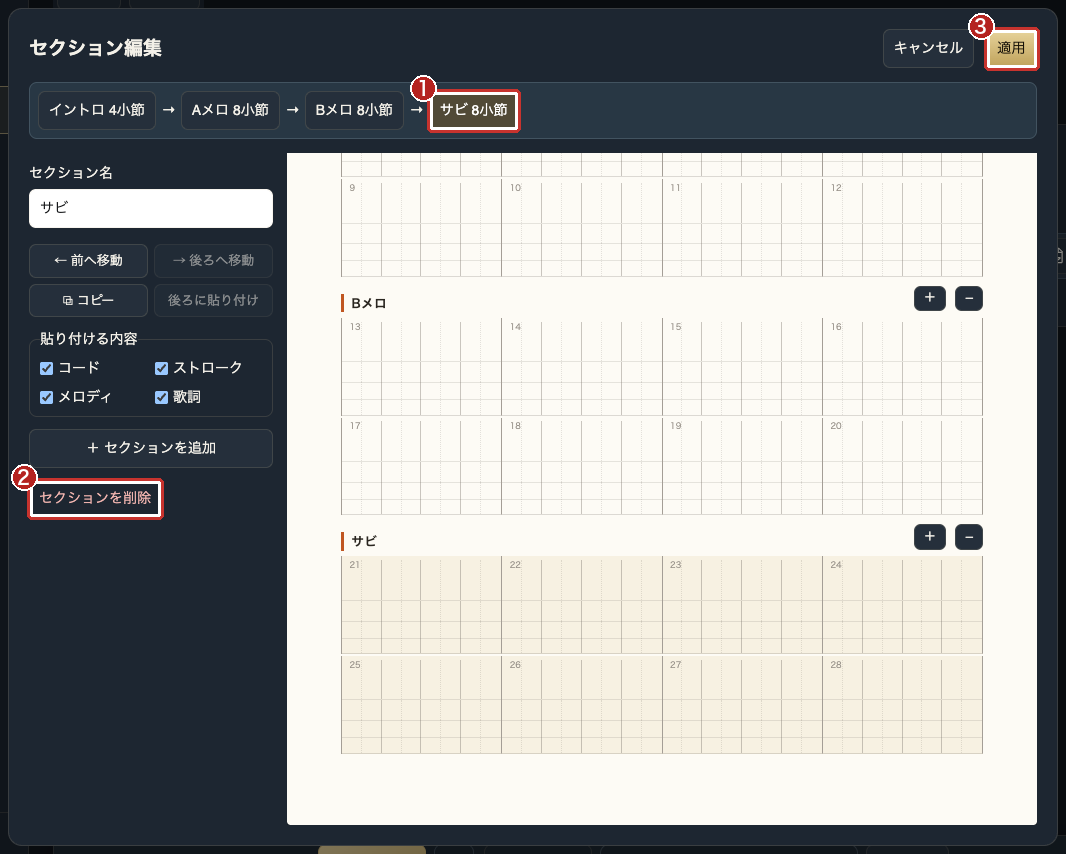
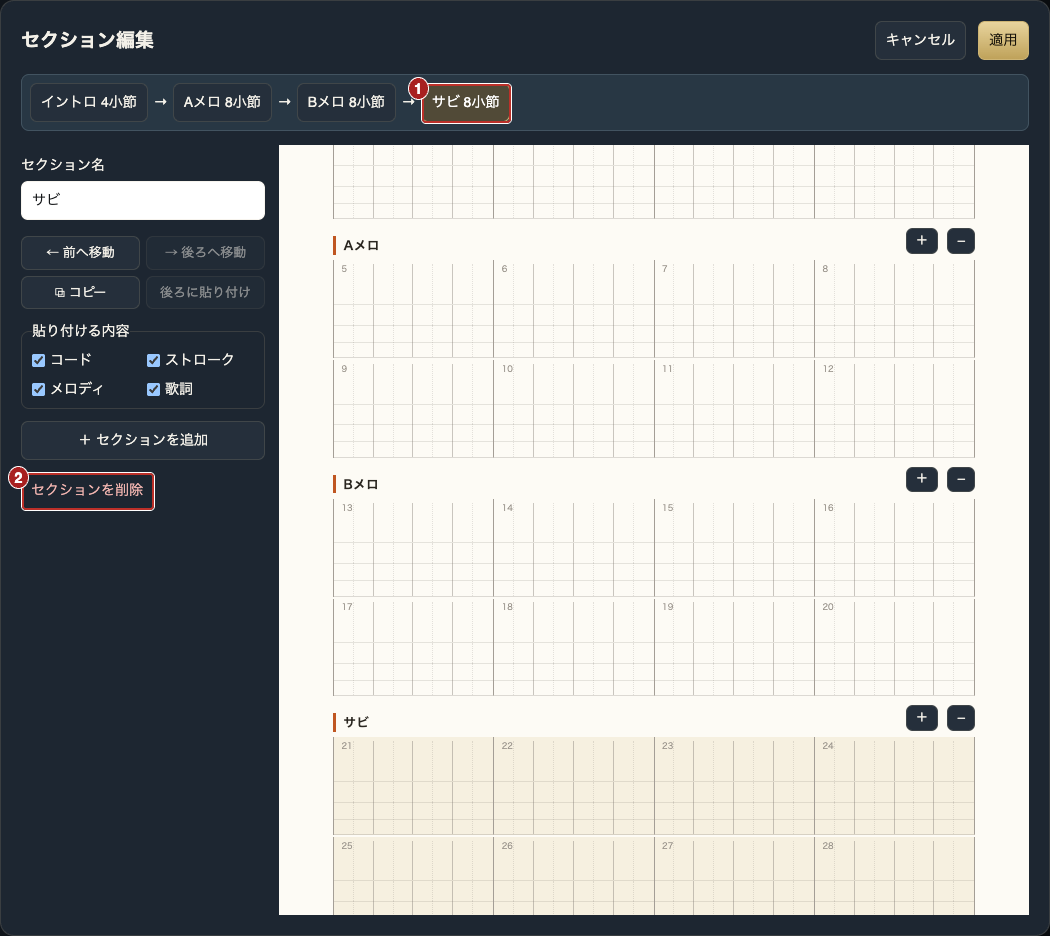
Clarify the illustrated first-song walkthrough and verify the score guide

diff --git a/apps/cruise-studio/score-guide/index.html b/apps/cruise-studio/score-guide/index.html
@@ -7,37 +7,39 @@
 @media print{.capture{max-width:100%;max-height:none}.capture img{width:auto;max-height:140mm}.legend b{print-color-adjust:exact}.opening{padding:0}}
 .lesson-notes{border-collapse:collapse;margin:1rem 0;width:min(100%,36rem)}.lesson-notes th,.lesson-notes td{text-align:center;border:1px solid #cfc7b6;padding:.25rem}.lesson-notes td span{color:#285b80}.lesson-notes caption{text-align:left}.lesson-notes thead{background:#ede8db}#lesson figure img{max-height:none}#lesson h3{margin-top:2rem}
 </style>
-<header id="top"><p>Cruise Studio · Ver. 0.211.1-rc.1</p><h1>譜面クルーズ 取扱説明書</h1><p>曲を作り、小節に演奏を入力し、印刷・配布するまでの操作を説明します。チュートリアルでは「そらまで」、機能別の解説では「海辺の散歩」を使います。</p></header>
+<header id="top"><p>Cruise Studio · Ver. 0.211.2-rc.1</p><h1>譜面クルーズ 取扱説明書</h1><p>曲を作り、小節に演奏を入力し、印刷・配布するまでの操作を説明します。チュートリアルでは「そらまで」、機能別の解説では「海辺の散歩」を使います。</p></header>
 <section id="overview" class="opening"><h2>画面の見かた</h2><p>操作は上、譜面は中央、再生は下にあります。左のスタジオメニューから他のツールにも移動できます。</p>
 <figure><div class="capture"><img src="overview.png" alt="スタジオの中で譜面クルーズを開いた画面全体"><svg aria-hidden="true" viewBox="0 0 1440 1000"><rect x="241" y="178" width="1159" height="201" rx="5" fill="none" stroke="#c32820" stroke-width="3"/><circle cx="238" cy="175" r="20" fill="#ab271e" stroke="white" stroke-width="2"/><text x="238" y="182.6" text-anchor="middle" font-family="sans-serif" font-size="24" font-weight="bold" fill="white">1</text><rect x="481" y="594" width="678" height="111" rx="5" fill="none" stroke="#c32820" stroke-width="3"/><circle cx="478" cy="591" r="20" fill="#ab271e" stroke="white" stroke-width="2"/><text x="478" y="598.6" text-anchor="middle" font-family="sans-serif" font-size="24" font-weight="bold" fill="white">2</text><rect x="241" y="929" width="1159" height="60" rx="5" fill="none" stroke="#c32820" stroke-width="3"/><circle cx="238" cy="926" r="20" fill="#ab271e" stroke="white" stroke-width="2"/><text x="238" y="933.6" text-anchor="middle" font-family="sans-serif" font-size="24" font-weight="bold" fill="white">3</text></svg></div><figcaption><ul class="legend"><li><b>1</b>上部カードで曲とツールを選ぶ</li><li><b>2</b>譜面で編集・再生する小節を選ぶ</li><li><b>3</b>再生、テンポ、音量を操作する</li></ul></figcaption></figure>
 <p><a href="#lesson">最初の1曲を作ってみる ↓</a></p></section>
-<nav aria-label="目次"><strong>目次</strong><ul>
+<nav id="contents" aria-label="目次"><strong>目次</strong><ul>
 <li><a href="#overview">画面の見かた</a></li><li><a href="#lesson">はじめての1曲</a></li><li><a href="#start">曲を作る・開く</a></li><li><a href="#save">保存場所・複製・変更履歴</a></li><li><a href="#song">曲情報・キー・カポ</a></li><li><a href="#bars">小節を選ぶ・移動する</a></li><li><a href="#edit">小節編集と鍵盤・フォーム入力</a></li><li><a href="#sections">セクションを組み立てる</a></li><li><a href="#batch">コード・ストローク一括入力</a></li><li><a href="#view">段組み・文字・表示設定</a></li><li><a href="#play">再生と練習</a></li><li><a href="#share">書き出し・印刷・ビューワー</a></li><li><a href="#keys">キー操作・困ったとき</a></li><li><a href="#contact">お問い合わせ</a></li></ul></nav>
 <main><section id="lesson"><h2>はじめての1曲「そらまで」</h2>
 <p>4/4拍子、BPM 100の4小節を作ります。コードとストロークは一括入力し、歌詞とメロディは各拍の先頭に入れます。</p>
-<h3>1. 曲を作る</h3><p>「メニュー」→「新しい曲を作成」を開き、曲名に「そらまで」、BPMに100を入力します。拍子は4/4です。そのまま画面左下の「譜面の全体編集」へ進みます。</p>
-<figure><img src="lesson/new-menu.png" alt="新しい曲を作成するメニュー"><figcaption>①メニュー　②新しい曲を作成</figcaption></figure><figure><img src="lesson/song.png" alt="新規作成画面の左欄。曲名やBPMの下に「譜面の全体編集」の3つのボタンが並ぶ"><figcaption>①曲名　②BPM　③セクション編集　④コード一括入力　⑤ストローク一括入力</figcaption></figure>
-<h3>2. 練習用の4小節を用意する</h3><p>「譜面の全体編集」の「セクション編集」を押します。この練習用の新規曲では、イントロの4小節を残し、ほかのセクションを選んで削除します。残したセクションの名前を「うた」に変え、右上の「適用」を押すと「新しい曲を作成」に戻ります。</p>
-<figure><img src="lesson/sections.png" alt="不要なセクションを選択した画面"><figcaption>①削除するセクション　②セクションを削除　③適用</figcaption></figure>
-<h3>3. コードを一括入力する</h3><p>「新しい曲を作成」の「譜面の全体編集」から「コード一括入力」を押します。「1950s」を選び、「曲全て」にチェックして「適用」を押します。下の譜面に C・Am・F・G が1小節ずつ並んだら、右上の「OK」を押して作成画面に戻ります。</p>
+<h3>1. 曲を作る</h3><p>「メニュー」→「新しい曲を作成」を開き、曲名に「そらまで」、BPMに100を入力します。拍子は4/4です。右の譜面に曲名とBPMが反映されたことを確認します。この画面を開いたまま、手順2に進みます。</p>
+<figure><img src="lesson/new-menu.png" alt="新しい曲を作成するメニュー"><figcaption>①メニュー　②新しい曲を作成</figcaption></figure><figure><img src="lesson/song.png" alt="「新しい曲を作成」の画面全体。左に曲名・BPMと3つの編集ボタン、右に「そらまで」の譜面が表示される"><figcaption>①曲名　②BPM　③セクション編集　④コード一括入力　⑤ストローク一括入力　⑥譜面プレビュー</figcaption></figure>
+<h3>2. 練習用の4小節を用意する</h3><p>「新しい曲を作成」画面の左下で「セクション編集」（手順1の③）を押します。開いた画面の上部で「サビ」を選び、「セクションを削除」を押し、確認画面で曲中のどの部分を削除するか確かめて確定します。同じ操作で「Bメロ」と「Aメロ」を削除し、「イントロ 4小節」を残します。</p>
+<figure><img src="lesson/sections.png" alt="不要なセクションを選択した画面"><figcaption>①サビを選ぶ　②セクションを削除</figcaption></figure>
+<p>残した「イントロ」のセクション名を「うた」に変えます。上部に「うた 4小節」だけが並んだら、右上の「適用」で「新しい曲を作成」画面に戻ります。</p>
+<figure><img src="lesson/section-ready.png" alt="セクション編集で「うた」だけを残した状態。セクション名の入力欄と右上の適用ボタン"><figcaption>①セクション名　②適用</figcaption></figure>
+<h3>3. コードを一括入力する</h3><p>「新しい曲を作成」画面の「コード一括入力」（手順1の④）を押します。「1950s」を選び、「曲全て」にチェックして「適用」を押します。下の譜面に C・Am・F・G が1小節ずつ並んだら、右上の「OK」を押して作成画面に戻ります。</p>
 <figure><img src="lesson/chords.png" alt="1950sのコード進行を4小節に適用したプレビュー"><figcaption>①1950s　②曲全て　③適用　④OK</figcaption></figure>
-<h3>4. ストロークを4小節すべてに入れる</h3><p>同じ「譜面の全体編集」から「ストローク一括入力」を押します。「4分連続」を選び、ここでも「曲全て」をチェックして「適用」。3・4小節目まで各小節に4つずつ ↓ があることを確認し、「OK」で作成画面に戻ります。</p>
+<h3>4. ストロークを4小節すべてに入れる</h3><p>「新しい曲を作成」画面の「ストローク一括入力」（手順1の⑤）を押します。「4分連続」を選び、ここでも「曲全て」をチェックして「適用」。3・4小節目まで各小節に4つずつ ↓ があることを確認し、「OK」で作成画面に戻ります。</p>
 <figure><img src="lesson/strum.png" alt="4分音符のダウンストロークを4小節に適用したプレビュー"><figcaption>①4分連続　②曲全て　③適用　④OK</figcaption></figure>
 <p>作成画面のプレビューで、4小節のコードとストロークを確認します。ここで右上の「適用」を押して、作った譜面を開きます。</p>
 <figure><img src="lesson/apply-song.png" alt="新規作成画面に戻ったプレビュー。4小節の伴奏と右上の適用ボタン"><figcaption>①作成画面の「適用」</figcaption></figure>
 <h3>5. 小節編集を開く</h3><p>譜面の1小節目をクリックし、上部カードの「編集」を押します。編集画面の上で「4小節」を選ぶと、4小節分を横に並べて入力できます。</p>
 <figure><img src="lesson/edit.png" alt="選んだ小節と上部カードの編集ボタン"><figcaption>①1小節目　②編集</figcaption></figure>
-<h3>6. 歌詞を入れる</h3><p>歌詞行の各拍の先頭に、ひらがなを1文字ずつ入力します。1小節目なら、1拍目「あ」、2拍目「さ」、3拍目「の」、4拍目「ひ」です。8分グリッドでは各拍の左側のマスを使います。</p><table class="lesson-notes"><caption>各列が1拍です。上段が歌詞、下段がドレミです。</caption><thead><tr><th>小節・コード</th><th>1拍目</th><th>2拍目</th><th>3拍目</th><th>4拍目</th></tr></thead><tbody><tr><th>1・C</th><td>あ<br><span>ド</span></td><td>さ<br><span>ミ</span></td><td>の<br><span>ソ</span></td><td>ひ<br><span>ミ</span></td></tr><tr><th>2・Am</th><td>か<br><span>ラ</span></td><td>ぜ<br><span>ソ</span></td><td>の<br><span>ミ</span></td><td>ね<br><span>ド</span></td></tr><tr><th>3・F</th><td>そ<br><span>ファ</span></td><td>ら<br><span>ラ</span></td><td>ま<br><span>ソ</span></td><td>で<br><span>ファ</span></td></tr><tr><th>4・G</th><td>と<br><span>ソ</span></td><td>ど<br><span>レ</span></td><td>け<br><span>シ</span></td><td>て<br><span>ソ</span></td></tr></tbody></table>
-<figure><img src="lesson/lyrics.png" alt="4小節の歌詞を入力した編集画面"><figcaption>①4小節表示　②最初の「あ」　③最後の「て」</figcaption></figure>
+<h3>6. 歌詞を入れる</h3><p>歌詞行の各拍の先頭に、ひらがなを1文字ずつ入力します。1小節目なら、1拍目「あ」、2拍目「さ」、3拍目「の」、4拍目「ひ」です。8分グリッドでは各拍の左側のマスを使います。右へスクロールしながら、下の表のとおりに4小節分を入力します。</p><table class="lesson-notes"><caption>各列が1拍です。上段が歌詞、下段がドレミです。</caption><thead><tr><th>小節・コード</th><th>1拍目</th><th>2拍目</th><th>3拍目</th><th>4拍目</th></tr></thead><tbody><tr><th>1・C</th><td>あ<br><span>ド</span></td><td>さ<br><span>ミ</span></td><td>の<br><span>ソ</span></td><td>ひ<br><span>ミ</span></td></tr><tr><th>2・Am</th><td>か<br><span>ラ</span></td><td>ぜ<br><span>ソ</span></td><td>の<br><span>ミ</span></td><td>ね<br><span>ド</span></td></tr><tr><th>3・F</th><td>そ<br><span>ファ</span></td><td>ら<br><span>ラ</span></td><td>ま<br><span>ソ</span></td><td>で<br><span>ファ</span></td></tr><tr><th>4・G</th><td>と<br><span>ソ</span></td><td>ど<br><span>レ</span></td><td>け<br><span>シ</span></td><td>て<br><span>ソ</span></td></tr></tbody></table>
+<figure><img src="lesson/lyrics.png" alt="編集画面の1小節目。コードCの下の歌詞行に「あ・さ・の・ひ」が並ぶ"><figcaption>①4小節表示　②1拍目「あ」　③4拍目「ひ」</figcaption></figure>
 <h3>7. メロディを入れる</h3><p>ドレミ行で、歌詞と同じ位置に音名を入力します。「ファ」は1つのマスにまとめます。4小節分を入力したら編集画面を閉じ、歌詞の真下に各音が並んでいることを確認します。</p>
-<figure><img src="lesson/notes.png" alt="4小節のドレミを入力した編集画面"><figcaption>①4小節表示　②最初の「ド」　③最後の「ソ」</figcaption></figure><figure><img src="lesson/score.png" alt="コード、ストローク、歌詞、メロディの4段がそろった完成譜"><figcaption>4小節すべてにコードと4本の矢印があり、その下に歌詞とメロディが並びます。</figcaption></figure>
+<figure><img src="lesson/notes.png" alt="1小節目の歌詞の真下に「ド・ミ・ソ・ミ」が並ぶ"><figcaption>①4小節表示　②1拍目「ド」　③4拍目「ミ」</figcaption></figure><figure><img src="lesson/score.png" alt="コード、ストローク、歌詞、メロディの4段がそろった完成譜"><figcaption>4小節すべてにコードと4本の矢印があり、その下に歌詞とメロディが並びます。</figcaption></figure>
 <h3>8. 編集用のファイルを保存する</h3><p>メニュー → 名前をつけて保存。PCのChromeでは保存先と名前を選びます。図のようなダウンロード画面では「そらまで.json」を確認して「保存」。このファイルは「ファイルを開く(JSON)」で再編集できます。</p>
 <figure><img src="lesson/save.png" alt="ダウンロード方式でのファイル名の指定"><figcaption>①ファイル名　②保存</figcaption></figure><p><a href="#save">Safariで端末内の保存先を選ぶ方法</a></p>
-<h3>9. ビューワーに書き出して再生する</h3><p>メニュー → 譜面ビューワーに書き出す。保存先のフォルダを確認して「書き出す」を押します。完了画面の「ビューワーで開く」を押し、下の「再生」で演奏を聴きます。同じボタンで一時停止できます。</p>
-<figure><img src="lesson/export.png" alt="演奏用譜面の書き出し先を選ぶ画面"><figcaption>①保存先フォルダ　②書き出す</figcaption></figure><figure><img src="lesson/open.png" alt="書き出し完了画面"><figcaption>①ビューワーで開く</figcaption></figure><figure><img src="lesson/play.png" alt="完成した曲をビューワーで再生している画面"><figcaption>①再生・一時停止</figcaption></figure>
-</section><section id="start"><h2>曲を作る・開く</h2><ol><li>スタジオで「譜面クルーズ」を開き、「メニュー」から「新しい曲を作成」を選びます。</li><li>曲情報で曲名、BPM、拍子などを入力して「適用」を押します。</li><li>白い譜面の小節を選んで「編集」を押します。まず先頭にコードとストロークを入れ、下の「再生」で確認してから「保存」します。</li></ol>
+<h3>9. ビューワーに書き出して再生する</h3><p>メニュー → 譜面ビューワーに書き出す。ビューワーのライブラリ内のフォルダを選びます。最初は「未分類」のまま「書き出す」を押します。完了画面の「譜面ビューワーに移動」を押し、下の「再生」で演奏を聴きます。同じボタンで一時停止できます。</p>
+<figure><img src="lesson/export.png" alt="演奏用譜面の書き出し先を選ぶ画面"><figcaption>①ライブラリ内のフォルダ　②書き出す</figcaption></figure><figure><img src="lesson/open.png" alt="書き出し完了画面"><figcaption>①譜面ビューワーに移動</figcaption></figure><figure><img src="lesson/play.png" alt="完成した曲をビューワーで再生している画面"><figcaption>①再生・一時停止</figcaption></figure>
+</section><section id="start"><h2>曲を作る・開く</h2><dl><dt>新しく作る</dt><dd>左上の曲名欄か「メニュー」で「新しい曲を作成」を選びます。<a href="#lesson">4小節の練習曲を作る手順</a></dd><dt>このブラウザの曲を開く</dt><dd>左上の曲名欄を開き、一覧から曲名を選びます。</dd><dt>端末のJSONファイルを開く</dt><dd>曲名欄の「ファイルを開く(JSON)」を選び、保存しておいた編集用ファイルを開きます。</dd></dl>
 <figure><div class="capture"><img src="toolbar.png" alt="上段の曲切り替え・メニュー・表示と、下段の保存・履歴・ツール"><svg aria-hidden="true" viewBox="0 0 1161 203"><rect x="14" y="12" width="438" height="42" rx="5" fill="none" stroke="#c32820" stroke-width="3"/><circle cx="15" cy="15" r="13" fill="#ab271e" stroke="white" stroke-width="2"/><text x="15" y="19.9" text-anchor="middle" font-family="sans-serif" font-size="16" font-weight="bold" fill="white">1</text><rect x="464" y="12" width="94" height="42" rx="5" fill="none" stroke="#c32820" stroke-width="3"/><circle cx="461" cy="15" r="13" fill="#ab271e" stroke="white" stroke-width="2"/><text x="461" y="19.9" text-anchor="middle" font-family="sans-serif" font-size="16" font-weight="bold" fill="white">2</text><rect x="14" y="66" width="57" height="34" rx="5" fill="none" stroke="#c32820" stroke-width="3"/><circle cx="15" cy="63" r="13" fill="#ab271e" stroke="white" stroke-width="2"/><text x="15" y="67.9" text-anchor="middle" font-family="sans-serif" font-size="16" font-weight="bold" fill="white">3</text><rect x="1112" y="115" width="28" height="34" rx="5" fill="none" stroke="#c32820" stroke-width="3"/><circle cx="1109" cy="112" r="13" fill="#ab271e" stroke="white" stroke-width="2"/><text x="1109" y="116.9" text-anchor="middle" font-family="sans-serif" font-size="16" font-weight="bold" fill="white">4</text></svg></div><figcaption><ul class="legend"><li><b>1</b>曲の切り替え・保存場所・ファイル一覧</li><li><b>2</b>曲の作成や書き出し</li><li><b>3</b>現在の曲を保存</li><li><b>4</b>ツールの表示項目を選択</li></ul></figcaption></figure>
-<p>左上の曲名欄には、新規作成、保存、複製、ファイルを開く(JSON)、書き出し、印刷も並びます。「メニュー」からも同じ操作ができます。外部ファイルは「メニュー」→「ファイルを開く(JSON)」で開きます。ツールの各アイコンにポインターを置くと操作名が出ます。「…」で表示項目を選び、アイコンのドラッグで順番を変更できます。「すべて表示」で全項目を戻せます。</p></section>
+<p>左上の曲名欄には、新規作成、保存、複製、ファイルを開く(JSON)、書き出し、印刷も並びます。「メニュー」からも同じ操作ができます。ツールの各アイコンにポインターを置くと操作名が出ます。「…」で表示項目を選び、アイコンのドラッグで順番を変更できます。「すべて表示」で全項目を戻せます。</p></section>
 <section id="save"><h2>保存場所・複製・変更履歴</h2><dl>
 <dt>保存／名前をつけて保存</dt><dd>ファイル保存に対応したPCブラウザでは、初回の「保存」で場所と名前を選びます。次の「保存」は関連付けたファイルを更新します。「メニュー」→「名前をつけて保存」で別名を選ぶと、それ以降の保存先は新しいファイルになります。</dd>
 <dt>保存場所</dt><dd>曲名の選択欄を開き、「この曲の保存場所」を押すと、ファイルを関連付けたChromeではそのフォルダからファイル選択画面が開きます。場所を確認したらキャンセルで戻れます。未保存の曲やブラウザ内の曲では、現在の状態と書き出し方法が表示されます。</dd>
@@ -47,7 +49,7 @@
 <figure><div class="capture"><img src="files.png" alt="ファイル一覧の曲名と削除ボタン"><svg aria-hidden="true" viewBox="0 0 512 210"><rect x="22" y="67" width="405" height="37" rx="5" fill="none" stroke="#c32820" stroke-width="3"/><circle cx="19" cy="64" r="13" fill="#ab271e" stroke="white" stroke-width="2"/><text x="19" y="68.9" text-anchor="middle" font-family="sans-serif" font-size="16" font-weight="bold" fill="white">1</text><rect x="439" y="67" width="51" height="37" rx="5" fill="none" stroke="#c32820" stroke-width="3"/><circle cx="436" cy="64" r="13" fill="#ab271e" stroke="white" stroke-width="2"/><text x="436" y="68.9" text-anchor="middle" font-family="sans-serif" font-size="16" font-weight="bold" fill="white">2</text></svg></div><figcaption><ul class="legend"><li><b>1</b>曲を開く</li><li><b>2</b>一覧から削除</li></ul></figcaption></figure><dl>
 <dt>曲を複製</dt><dd>メニューから「曲を複製」を選び、別の曲として作業を続けます。編曲案を分けたいときに使います。</dd>
 <dt>取り消し・履歴</dt><dd>保存ボタンの横の矢印で編集を一手ずつ取り消し・やり直しできます。「履歴」で過去の状態を選ぶと譜面を確認できます。「この時点に戻す」を確定すると、それ以降の履歴が失われます。ファイルへ反映するには保存します。</dd></dl></section>
-<section id="song"><h2>曲情報・キー・カポ</h2><p>譜面のタイトル、BPM、拍子、ORGキー、Playキー、またはメニューの「曲情報」を押します。曲名・アーティスト・テンポ・拍子は見本で確かめてから「適用」します。</p><figure><div class="capture"><img src="song.png" alt="左で曲情報を設定し、右の譜面で確認する画面"><svg aria-hidden="true" viewBox="0 0 1120 799"><rect x="22" y="111" width="257" height="37" rx="5" fill="none" stroke="#c32820" stroke-width="3"/><circle cx="19" cy="108" r="13" fill="#ab271e" stroke="white" stroke-width="2"/><text x="19" y="112.9" text-anchor="middle" font-family="sans-serif" font-size="16" font-weight="bold" fill="white">1</text><rect x="22" y="336" width="257" height="34" rx="5" fill="none" stroke="#c32820" stroke-width="3"/><circle cx="19" cy="333" r="13" fill="#ab271e" stroke="white" stroke-width="2"/><text x="19" y="337.9" text-anchor="middle" font-family="sans-serif" font-size="16" font-weight="bold" fill="white">2</text><rect x="1049" y="22" width="49" height="37" rx="5" fill="none" stroke="#c32820" stroke-width="3"/><circle cx="1046" cy="19" r="13" fill="#ab271e" stroke="white" stroke-width="2"/><text x="1046" y="23.9" text-anchor="middle" font-family="sans-serif" font-size="16" font-weight="bold" fill="white">3</text></svg></div><figcaption><ul class="legend"><li><b>1</b>曲名を入力</li><li><b>2</b>拍子を選択</li><li><b>3</b>曲情報を適用</li></ul></figcaption></figure><p>ORGキーは原曲の調、Playキーは演奏に使うキー・カポの組み合わせです。「移調・カポの変更前後を確認」またはメニューの「キー・カポ」を開き、コードの変更前後を見比べて適用します。「譜面の全体編集」からセクション編集と一括入力にも進めます。</p></section>
+<section id="song"><h2>曲情報・キー・カポ</h2><p>譜面のタイトル、BPM、拍子、ORGキー、Playキー、またはメニューの「曲情報」を押します。曲名・アーティスト・テンポ・拍子は右の譜面で確かめてから「適用」します。</p><figure><div class="capture"><img src="song.png" alt="左で曲情報を設定し、右の譜面で確認する画面"><svg aria-hidden="true" viewBox="0 0 1120 799"><rect x="22" y="111" width="257" height="37" rx="5" fill="none" stroke="#c32820" stroke-width="3"/><circle cx="19" cy="108" r="13" fill="#ab271e" stroke="white" stroke-width="2"/><text x="19" y="112.9" text-anchor="middle" font-family="sans-serif" font-size="16" font-weight="bold" fill="white">1</text><rect x="22" y="336" width="257" height="34" rx="5" fill="none" stroke="#c32820" stroke-width="3"/><circle cx="19" cy="333" r="13" fill="#ab271e" stroke="white" stroke-width="2"/><text x="19" y="337.9" text-anchor="middle" font-family="sans-serif" font-size="16" font-weight="bold" fill="white">2</text><rect x="1049" y="22" width="49" height="37" rx="5" fill="none" stroke="#c32820" stroke-width="3"/><circle cx="1046" cy="19" r="13" fill="#ab271e" stroke="white" stroke-width="2"/><text x="1046" y="23.9" text-anchor="middle" font-family="sans-serif" font-size="16" font-weight="bold" fill="white">3</text></svg></div><figcaption><ul class="legend"><li><b>1</b>曲名を入力</li><li><b>2</b>拍子を選択</li><li><b>3</b>曲情報を適用</li></ul></figcaption></figure><p>ORGキーは原曲の調、Playキーは演奏に使うキー・カポの組み合わせです。「移調・カポの変更前後を確認」またはメニューの「キー・カポ」を開き、コードの変更前後を見比べて適用します。「曲情報」画面の左下には「セクション編集」「コード一括入力」「ストローク一括入力」もあります。</p></section>
 <section id="bars"><h2>小節を選ぶ・移動する</h2><p>小節をクリックすると上部カードに小節操作が出ます。続けて同じ小節をクリックするか「編集」で入力へ進みます。複数小節は先頭から末尾へドラッグするか、最初をクリックして最後をShift＋クリックします。譜面の余白で選択を解除します。</p><dl><dt>小節追加・複製</dt><dd>選択位置の後ろに空の小節、または選んだ内容のコピーを追加します。</dd><dt>コピー・貼り付け</dt><dd>元の範囲をコピーし、貼り始める位置を選びます。「上書き貼り付け」は既存の位置を置き換え、「挿入して貼り付け」は後ろの小節を送ります。</dd><dt>移動</dt><dd>前へ・後ろへ移動するボタンで並びを変えます。セクション境界では移動後の所属も確認します。</dd><dt>削除</dt><dd>「枠を残して削除」は譜面上の場所を空き枠として残します。「詰めて削除」は後ろの小節を前へ詰めます。空き枠は再生されません。</dd></dl></section>
 <section id="edit"><h2>小節編集と鍵盤・フォーム入力</h2><figure><div class="capture"><img src="editor.png" alt="小節編集のコード・ストローク・歌詞・ドレミの行と拍の区切り"><svg aria-hidden="true" viewBox="0 0 960 338"><rect x="113" y="71" width="101" height="40" rx="5" fill="none" stroke="#c32820" stroke-width="3"/><circle cx="110" cy="68" r="13" fill="#ab271e" stroke="white" stroke-width="2"/><text x="110" y="72.9" text-anchor="middle" font-family="sans-serif" font-size="16" font-weight="bold" fill="white">1</text><rect x="113" y="118" width="101" height="40" rx="5" fill="none" stroke="#c32820" stroke-width="3"/><circle cx="110" cy="115" r="13" fill="#ab271e" stroke="white" stroke-width="2"/><text x="110" y="119.9" text-anchor="middle" font-family="sans-serif" font-size="16" font-weight="bold" fill="white">2</text></svg></div><figcaption><ul class="legend"><li><b>1</b>コードを入力</li><li><b>2</b>ストロークを入力</li></ul></figcaption></figure><p>上の「1小節」〜「4小節」は編集する範囲、「前へ」「次へ」は小節移動です。倍率ボタンでマスを拡大できます。「右窓へ」で編集画面の置き場所を切り替えます。編集画面内の「？」で入力中にも操作を確認できます。</p>
 <dl><dt>コード・フォーム</dt><dd>コード行のマスをクリックしてEmやG/Bなどを入力します。選択中のマスをもう一度クリックすると文字単位で直せます。行名の▼からコード・フォームを選べます。フォームの図は譜面の表示設定で表示できます。</dd>
@@ -55,15 +57,15 @@
 <dt>歌詞・ドレミ</dt><dd>歌い始めるマスに文字を入れます。ドレミは行名横の▼から鍵盤でも入力できます。音の高さを確認して試聴します。表示設定では歌詞・メロディの文字サイズと字間を個別に調節できます。</dd>
 <dt>音価・拍ごとの固定</dt><dd>行名横の数字で行の入力単位を選びます。特定の拍だけ細かくしたい場合は拍の右下の数字を押します。鍵付きの拍は行の単位を変えても固定されます。「…」のマスは、単位を細かくすると中の入力を確認できます。</dd>
 <dt>マスのコピー・移動</dt><dd>同じ行をドラッグまたはShift＋クリックで選び、⌘／Ctrl＋C、貼り始めるマスで⌘／Ctrl＋V。伸ばしは先頭の音と一緒に選びます。入力済みマスの左下の点をドラッグすると移動先を上書きします。</dd></dl></section>
-<section id="sections"><h2>セクションを組み立てる</h2><figure><div class="capture"><img src="sections.png" alt="セクションの順序、内容と譜面のプレビュー"><svg aria-hidden="true" viewBox="0 0 1050 866"><rect x="22" y="75" width="1006" height="55" rx="5" fill="none" stroke="#c32820" stroke-width="3"/><circle cx="19" cy="72" r="13" fill="#ab271e" stroke="white" stroke-width="2"/><text x="19" y="76.9" text-anchor="middle" font-family="sans-serif" font-size="16" font-weight="bold" fill="white">1</text><rect x="22" y="146" width="242" height="362" rx="5" fill="none" stroke="#c32820" stroke-width="3"/><circle cx="19" cy="143" r="13" fill="#ab271e" stroke="white" stroke-width="2"/><text x="19" y="147.9" text-anchor="middle" font-family="sans-serif" font-size="16" font-weight="bold" fill="white">2</text><rect x="979" y="22" width="49" height="37" rx="5" fill="none" stroke="#c32820" stroke-width="3"/><circle cx="976" cy="19" r="13" fill="#ab271e" stroke="white" stroke-width="2"/><text x="976" y="23.9" text-anchor="middle" font-family="sans-serif" font-size="16" font-weight="bold" fill="white">3</text></svg></div><figcaption><ul class="legend"><li><b>1</b>編集するセクションを選択</li><li><b>2</b>選択したセクションを編集</li><li><b>3</b>変更を適用</li></ul></figcaption></figure><p>譜面の「イントロ」「Aメロ」などの見出しを押してセクション編集を開きます。対象を選び、名前・曲中の順序・小節数を調整します。繰り返す部分は「コピー」で持っていくパートを選び、挿入位置の「後ろに貼り付け」を使います。コピーに小節を足す・末尾を削る操作もできます。削除すると中の小節も対象になるため、プレビューで前後を確認して「適用」します。</p></section>
-<section id="batch"><h2>コード・ストローク一括入力</h2><h3>コード進行を置く</h3><p>「コード一括」でプリセットを選び、譜面上の開始小節を押します。選択色が付いた小節が入力先です。セクション名や範囲選択で同じ進行を繰り返す範囲を指定できます。再生で進行を確かめて「適用」します。選択範囲のコードをまとめて消す場合はDeleteを使います。</p><figure><div class="capture"><img src="chords.png" alt="コード進行のプリセットと入力先の選択"><svg aria-hidden="true" viewBox="0 0 960 940"><rect x="109" y="67" width="200" height="40" rx="5" fill="none" stroke="#c32820" stroke-width="3"/><circle cx="106" cy="64" r="13" fill="#ab271e" stroke="white" stroke-width="2"/><text x="106" y="68.9" text-anchor="middle" font-family="sans-serif" font-size="16" font-weight="bold" fill="white">1</text><rect x="164" y="568" width="174" height="116" rx="5" fill="none" stroke="#c32820" stroke-width="3"/><circle cx="161" cy="565" r="13" fill="#ab271e" stroke="white" stroke-width="2"/><text x="161" y="569.9" text-anchor="middle" font-family="sans-serif" font-size="16" font-weight="bold" fill="white">2</text><rect x="902" y="18" width="40" height="30" rx="5" fill="none" stroke="#c32820" stroke-width="3"/><circle cx="899" cy="15" r="13" fill="#ab271e" stroke="white" stroke-width="2"/><text x="899" y="19.9" text-anchor="middle" font-family="sans-serif" font-size="16" font-weight="bold" fill="white">3</text></svg></div><figcaption><ul class="legend"><li><b>1</b>コード進行を選択</li><li><b>2</b>入力先の先頭小節を選択</li><li><b>3</b>進行を適用</li></ul></figcaption></figure>
-<h3>リズムを置く</h3><p>「ストローク一括」で4分・8分・16分などのプリセットを選び、入力先を指定します。「曲全て」は全曲が対象です。プリセットの試聴と曲の譜面の再生を使い分け、適用前に範囲を確認します。</p><figure><div class="capture"><img src="strokes.png" alt="ストロークのパターンを選択して譜面に適用する画面"><svg aria-hidden="true" viewBox="0 0 960 940"><rect x="109" y="67" width="181" height="40" rx="5" fill="none" stroke="#c32820" stroke-width="3"/><circle cx="106" cy="64" r="13" fill="#ab271e" stroke="white" stroke-width="2"/><text x="106" y="68.9" text-anchor="middle" font-family="sans-serif" font-size="16" font-weight="bold" fill="white">1</text><rect x="164" y="633" width="174" height="116" rx="5" fill="none" stroke="#c32820" stroke-width="3"/><circle cx="161" cy="630" r="13" fill="#ab271e" stroke="white" stroke-width="2"/><text x="161" y="634.9" text-anchor="middle" font-family="sans-serif" font-size="16" font-weight="bold" fill="white">2</text><rect x="902" y="18" width="40" height="30" rx="5" fill="none" stroke="#c32820" stroke-width="3"/><circle cx="899" cy="15" r="13" fill="#ab271e" stroke="white" stroke-width="2"/><text x="899" y="19.9" text-anchor="middle" font-family="sans-serif" font-size="16" font-weight="bold" fill="white">3</text></svg></div><figcaption><ul class="legend"><li><b>1</b>ストロークパターンを選択</li><li><b>2</b>入力先を選択</li><li><b>3</b>パターンを適用</li></ul></figcaption></figure>
+<section id="sections"><h2>セクションを組み立てる</h2><figure><div class="capture"><img src="sections.png" alt="セクションの順序、内容と譜面のプレビュー"><svg aria-hidden="true" viewBox="0 0 1050 866"><rect x="22" y="75" width="1006" height="55" rx="5" fill="none" stroke="#c32820" stroke-width="3"/><circle cx="19" cy="72" r="13" fill="#ab271e" stroke="white" stroke-width="2"/><text x="19" y="76.9" text-anchor="middle" font-family="sans-serif" font-size="16" font-weight="bold" fill="white">1</text><rect x="22" y="146" width="242" height="362" rx="5" fill="none" stroke="#c32820" stroke-width="3"/><circle cx="19" cy="143" r="13" fill="#ab271e" stroke="white" stroke-width="2"/><text x="19" y="147.9" text-anchor="middle" font-family="sans-serif" font-size="16" font-weight="bold" fill="white">2</text><rect x="979" y="22" width="49" height="37" rx="5" fill="none" stroke="#c32820" stroke-width="3"/><circle cx="976" cy="19" r="13" fill="#ab271e" stroke="white" stroke-width="2"/><text x="976" y="23.9" text-anchor="middle" font-family="sans-serif" font-size="16" font-weight="bold" fill="white">3</text></svg></div><figcaption><ul class="legend"><li><b>1</b>編集するセクションを選択</li><li><b>2</b>選択したセクションを編集</li><li><b>3</b>変更を適用</li></ul></figcaption></figure><p>譜面の「イントロ」「Aメロ」などの見出しを押してセクション編集を開きます。対象を選び、名前・曲中の順序・小節数を調整します。繰り返す部分を選んで「コピー」を押します。挿入位置のセクションを選び、「貼り付ける内容」で必要なパートにチェックを入れ、「後ろに貼り付け」を押します。右の譜面で各セクションの「＋」「−」を押すと、その末尾の小節を増減できます。削除すると中の小節も対象になるため、プレビューで前後を確認して「適用」します。</p></section>
+<section id="batch"><h2>コード・ストローク一括入力</h2><h3>コード進行を置く</h3><p>「メニュー」→「コード一括」でプリセットを選び、譜面上の開始小節を押します。選択色が付いた小節が入力先です。セクション名や範囲選択で同じ進行を繰り返す範囲を指定できます。「適用」を押すと下の譜面に進行が入ります。譜面を確認して右上の「OK」で確定します。選択範囲のコードをまとめて消す場合はDeleteを使います。</p><figure><div class="capture"><img src="chords.png" alt="コード進行のプリセットと入力先の選択"><svg aria-hidden="true" viewBox="0 0 960 940"><rect x="109" y="67" width="200" height="40" rx="5" fill="none" stroke="#c32820" stroke-width="3"/><circle cx="106" cy="64" r="13" fill="#ab271e" stroke="white" stroke-width="2"/><text x="106" y="68.9" text-anchor="middle" font-family="sans-serif" font-size="16" font-weight="bold" fill="white">1</text><rect x="164" y="568" width="174" height="116" rx="5" fill="none" stroke="#c32820" stroke-width="3"/><circle cx="161" cy="565" r="13" fill="#ab271e" stroke="white" stroke-width="2"/><text x="161" y="569.9" text-anchor="middle" font-family="sans-serif" font-size="16" font-weight="bold" fill="white">2</text><rect x="421" y="303" width="80" height="30" rx="5" fill="none" stroke="#c32820" stroke-width="3"/><circle cx="418" cy="300" r="13" fill="#ab271e" stroke="white" stroke-width="2"/><text x="418" y="304.9" text-anchor="middle" font-family="sans-serif" font-size="16" font-weight="bold" fill="white">3</text><rect x="902" y="18" width="40" height="30" rx="5" fill="none" stroke="#c32820" stroke-width="3"/><circle cx="899" cy="15" r="13" fill="#ab271e" stroke="white" stroke-width="2"/><text x="899" y="19.9" text-anchor="middle" font-family="sans-serif" font-size="16" font-weight="bold" fill="white">4</text></svg></div><figcaption><ul class="legend"><li><b>1</b>コード進行を選択</li><li><b>2</b>入力先の先頭小節を選択</li><li><b>3</b>適用して譜面を確認</li><li><b>4</b>OKで確定</li></ul></figcaption></figure>
+<h3>リズムを置く</h3><p>「メニュー」→「ストローク一括」で4分・8分・16分などのプリセットを選び、入力先を指定します。「曲全て」は全曲が対象です。「適用」を押し、下の譜面で矢印を確認します。下の「再生」で伴奏を試聴し、右上の「OK」で確定します。</p><figure><div class="capture"><img src="strokes.png" alt="ストロークのパターンを選択して譜面に適用する画面"><svg aria-hidden="true" viewBox="0 0 960 940"><rect x="109" y="67" width="181" height="40" rx="5" fill="none" stroke="#c32820" stroke-width="3"/><circle cx="106" cy="64" r="13" fill="#ab271e" stroke="white" stroke-width="2"/><text x="106" y="68.9" text-anchor="middle" font-family="sans-serif" font-size="16" font-weight="bold" fill="white">1</text><rect x="164" y="633" width="174" height="116" rx="5" fill="none" stroke="#c32820" stroke-width="3"/><circle cx="161" cy="630" r="13" fill="#ab271e" stroke="white" stroke-width="2"/><text x="161" y="634.9" text-anchor="middle" font-family="sans-serif" font-size="16" font-weight="bold" fill="white">2</text><rect x="323" y="324" width="80" height="30" rx="5" fill="none" stroke="#c32820" stroke-width="3"/><circle cx="320" cy="321" r="13" fill="#ab271e" stroke="white" stroke-width="2"/><text x="320" y="325.9" text-anchor="middle" font-family="sans-serif" font-size="16" font-weight="bold" fill="white">3</text><rect x="902" y="18" width="40" height="30" rx="5" fill="none" stroke="#c32820" stroke-width="3"/><circle cx="899" cy="15" r="13" fill="#ab271e" stroke="white" stroke-width="2"/><text x="899" y="19.9" text-anchor="middle" font-family="sans-serif" font-size="16" font-weight="bold" fill="white">4</text></svg></div><figcaption><ul class="legend"><li><b>1</b>ストロークパターンを選択</li><li><b>2</b>入力先を選択</li><li><b>3</b>適用して譜面を確認</li><li><b>4</b>OKで確定</li></ul></figcaption></figure>
 <p>手持ちの進行やリズムは「譜面からプリセット追加」で元の範囲を選び、内容を整えて名前を付けます。「プリセットを編集」ではパターンを変更できます。ストロークは対応するリズムクルーズのプリセットJSONも読み込めます。再利用する素材は「プリセットに保存」してください。</p></section>
 <section id="view"><h2>段組み・文字・表示設定</h2><p>上部の「表示」から項目の表示を切り替えます。「詳細設定」またはツールの「表示設定」で右側の見本を見ながら調整し、「保存」で確定します。「キャンセル」で開く前の状態に戻ります。</p><figure><div class="capture"><img src="display.png" alt="1行の小節数、セクション別の表示、書体と大きさの設定"><svg aria-hidden="true" viewBox="0 0 1080 900"><rect x="32" y="195" width="248" height="34" rx="5" fill="none" stroke="#c32820" stroke-width="3"/><circle cx="29" cy="192" r="13" fill="#ab271e" stroke="white" stroke-width="2"/><text x="29" y="196.9" text-anchor="middle" font-family="sans-serif" font-size="16" font-weight="bold" fill="white">1</text><rect x="30" y="278" width="242" height="19" rx="5" fill="none" stroke="#c32820" stroke-width="3"/><circle cx="27" cy="275" r="13" fill="#ab271e" stroke="white" stroke-width="2"/><text x="27" y="279.9" text-anchor="middle" font-family="sans-serif" font-size="16" font-weight="bold" fill="white">2</text><rect x="1012" y="26" width="46" height="34" rx="5" fill="none" stroke="#c32820" stroke-width="3"/><circle cx="1009" cy="23" r="13" fill="#ab271e" stroke="white" stroke-width="2"/><text x="1009" y="27.9" text-anchor="middle" font-family="sans-serif" font-size="16" font-weight="bold" fill="white">3</text></svg></div><figcaption><ul class="legend"><li><b>1</b>1行の小節数</li><li><b>2</b>セクション別の表示</li><li><b>3</b>表示設定を保存</li></ul></figcaption></figure>
-<dl><dt>1行の小節数</dt><dd>自動では譜面の幅に応じて1・2・4小節になります。手動では最大8小節を指定できます。譜面例で行を選ぶと、その行の枠数と置く小節数を個別に変えられます。</dd><dt>セクションごとの変更</dt><dd>「セクション別の表示」で対象を選び、段組み、各行の表示、書体・色・サイズを調整します。未変更の項目は全体設定に従います。「全体に戻す」で個別指定を外します。譜面のセクション名の⚙はこの設定への近道です。</dd><dt>譜面の各要素</dt><dd>チェックで表示、Aaで書体、色見本で色、スライダーで文字やフォームの大きさを指定します。歌詞・ドレミの字間、縦の罫線、ハイライトの透過率や再生棒の色も見本で確認できます。よく使う組み合わせは表示プリセットとして保存します。</dd><dt>ズーム・全画面</dt><dd>−／＋、トラックパッドのピンチ、Ctrl／⌘＋ホイールで読みやすい倍率にします。倍率表示を押すと標準に戻ります。全画面でも表示設定に進めます。</dd></dl></section>
+<dl><dt>1行の小節数</dt><dd>自動では譜面の幅に応じて1・2・4小節になります。手動では最大8小節を指定できます。譜面例で行を選ぶと、その行の枠数と置く小節数を個別に変えられます。</dd><dt>セクションごとの変更</dt><dd>「セクション別の表示」で対象を選び、段組み、各行の表示、書体・色・サイズを調整します。未変更の項目は全体設定に従います。各行の「全体に戻す」でその行だけ戻せます。段組みも含めて戻すときは「このセクションを全体設定に戻す」を押します。譜面のセクション名の⚙はこの設定への近道です。</dd><dt>譜面の各要素</dt><dd>チェックで表示、Aaで書体、色見本で色、スライダーで文字やフォームの大きさを指定します。歌詞・ドレミの字間、縦の罫線、ハイライトの透過率や再生棒の色も見本で確認できます。よく使う組み合わせは表示プリセットとして保存します。</dd><dt>ズーム・全画面</dt><dd>−／＋、トラックパッドのピンチ、Ctrl／⌘＋ホイールで読みやすい倍率にします。倍率表示を押すと標準に戻ります。全画面でも表示設定に進めます。</dd></dl></section>
 <section id="play"><h2>再生と練習</h2><figure><div class="capture"><img src="transport.png" alt="再生ボタン、繰り返し、練習BPM、音の切り替えと音設定"><svg aria-hidden="true" viewBox="0 0 1161 62"><rect x="266" y="10" width="106" height="42" rx="5" fill="none" stroke="#c32820" stroke-width="3"/><circle cx="263" cy="15" r="13" fill="#ab271e" stroke="white" stroke-width="2"/><text x="263" y="19.9" text-anchor="middle" font-family="sans-serif" font-size="16" font-weight="bold" fill="white">1</text><rect x="382" y="10" width="38" height="42" rx="5" fill="none" stroke="#c32820" stroke-width="3"/><circle cx="379" cy="15" r="13" fill="#ab271e" stroke="white" stroke-width="2"/><text x="379" y="19.9" text-anchor="middle" font-family="sans-serif" font-size="16" font-weight="bold" fill="white">2</text><rect x="475" y="12" width="54" height="38" rx="5" fill="none" stroke="#c32820" stroke-width="3"/><circle cx="472" cy="15" r="13" fill="#ab271e" stroke="white" stroke-width="2"/><text x="472" y="19.9" text-anchor="middle" font-family="sans-serif" font-size="16" font-weight="bold" fill="white">3</text></svg></div><figcaption><ul class="legend"><li><b>1</b>再生・停止</li><li><b>2</b>繰り返し</li><li><b>3</b>練習テンポ</li></ul></figcaption></figure>
 <p>下の「再生」で始め、再生中のボタンで止めます。演奏中は小節がハイライトされ、棒が拍の位置を示します。セクション横の「ここから」でその位置から再生できます。複数小節を選ぶと選んだ範囲を練習できます。繰り返しボタンで反復を切り替えます。</p>
 <p>下のBPMは練習用です。曲自体のテンポを変更する場合は「曲情報」を開きます。「ミュート」「メトロノーム」「全部鳴らす」で出力を切り替え、「音設定」でパート音量やカウントインを調整します。小節編集中は上部の再生で編集中の範囲を試聴できます。</p></section>
-<section id="share"><h2>書き出し・印刷・ビューワー</h2><dl><dt>後から編集する</dt><dd>メニューのJSON書き出しで編集用のファイルを保管します。再び編集するときは譜面クルーズの「ファイルを開く(JSON)」を選びます。</dd><dt>演奏用に渡す</dt><dd>「譜面ビューワーに書き出す」で名前とフォルダを指定し、ビューワーのライブラリに追加します。完了画面からビューワーで開くか、クルーズポートの譜面ビューワーでファイルを開き、再生・停止します。表示設定も引き継がれます。</dd><dt>紙・PDF</dt><dd>紙面の段組み、フォーム、歌詞などを表示設定で整え、「印刷」でプリンターや用紙を選びます。PDFで共有する場合は「PDFとして保存」を使います。配布前にページの区切りと文字の読みやすさを確認してください。</dd></dl></section>
+<section id="share"><h2>書き出し・印刷・ビューワー</h2><dl><dt>後から編集する</dt><dd>メニューのJSON書き出しで編集用のファイルを保管します。再び編集するときは譜面クルーズの「ファイルを開く(JSON)」を選びます。</dd><dt>ビューワーで演奏する</dt><dd>「譜面ビューワーに書き出す」で名前とフォルダを指定し、ビューワーのライブラリに追加します。完了画面で「譜面ビューワーに移動」を押して開きます。演奏用のファイルを受け取った場合は、クルーズポートの譜面ビューワーで「ファイルを開く」を押し、再生・停止します。表示設定も引き継がれます。</dd><dt>紙・PDF</dt><dd>紙面の段組み、フォーム、歌詞などを表示設定で整え、「印刷」でプリンターや用紙を選びます。PDFで共有する場合は「PDFとして保存」を使います。配布前にページの区切りと文字の読みやすさを確認してください。</dd></dl></section>
 <section id="keys"><h2>キー操作・困ったとき</h2><dl><dt>隣のマスに進む</dt><dd>Enter／Tabで次へ、Shift＋Tabで前へ。左右キーはマスの移動、文字編集中はカーソル移動です。行の移動は上下キー、ストローク行ではShift＋上下キーです。</dd><dt>保存・取り消し</dt><dd>⌘／Ctrl＋Sで保存、⌘／Ctrl＋Zで取り消し、Shiftを加えてやり直し。日本語入力中は変換を確定します。</dd><dt>Spaceで休符になった</dt><dd>ストローク入力中はSpaceが休符です。試聴には編集画面の再生ボタンを使います。</dd><dt>操作ボタンが見当たらない</dt><dd>小節操作は小節を選ぶと表示されます。ツールを以前減らした場合は「…」→「すべて表示」で復元できます。画面幅が狭いときはツール列を横にスクロールします。</dd><dt>同じ曲でも一部だけ表示が違う</dt><dd>セクション名の⚙から個別設定を確認します。段組みだけが違う場合は詳細設定の見本でその行を選び、行の個別指定も確認します。</dd></dl></section><section id="contact"><h2>解決しないとき</h2><p>Sound Cruise サポート　<a href="mailto:soundcruise.inc@gmail.com">soundcruise.inc@gmail.com</a></p><p>このページ上部のバージョン、OS・ブラウザ名、どの操作で何が起きたかをお知らせください。画面写真があると状況を確認しやすくなります。</p></section></main>
-<footer><a href="#top">先頭・目次に戻る</a><p>この説明書はブラウザの印刷機能でPDFにも保存できます。</p></footer></html>
+<footer><a href="#contents">目次に戻る</a><p>この説明書はブラウザの印刷機能でPDFにも保存できます。</p></footer></html>

diff --git a/apps/cruise-studio/edition-candidates/score/score-candidate-features.js b/apps/cruise-studio/edition-candidates/score/score-candidate-features.js
@@ -1,4 +1,4 @@
 /* Candidate edition policy. Pro admission is independently enforced by Studio. */
 Object.defineProperty(window.CruiseStudio, 'releaseFeatures', {
-    value: Object.freeze({scoreVersion:"0.211.1-rc.1", creation:true, allows:id => id !== 'preDtm'})
+    value: Object.freeze({scoreVersion:"0.211.2-rc.1", creation:true, allows:id => id !== 'preDtm'})
 });
